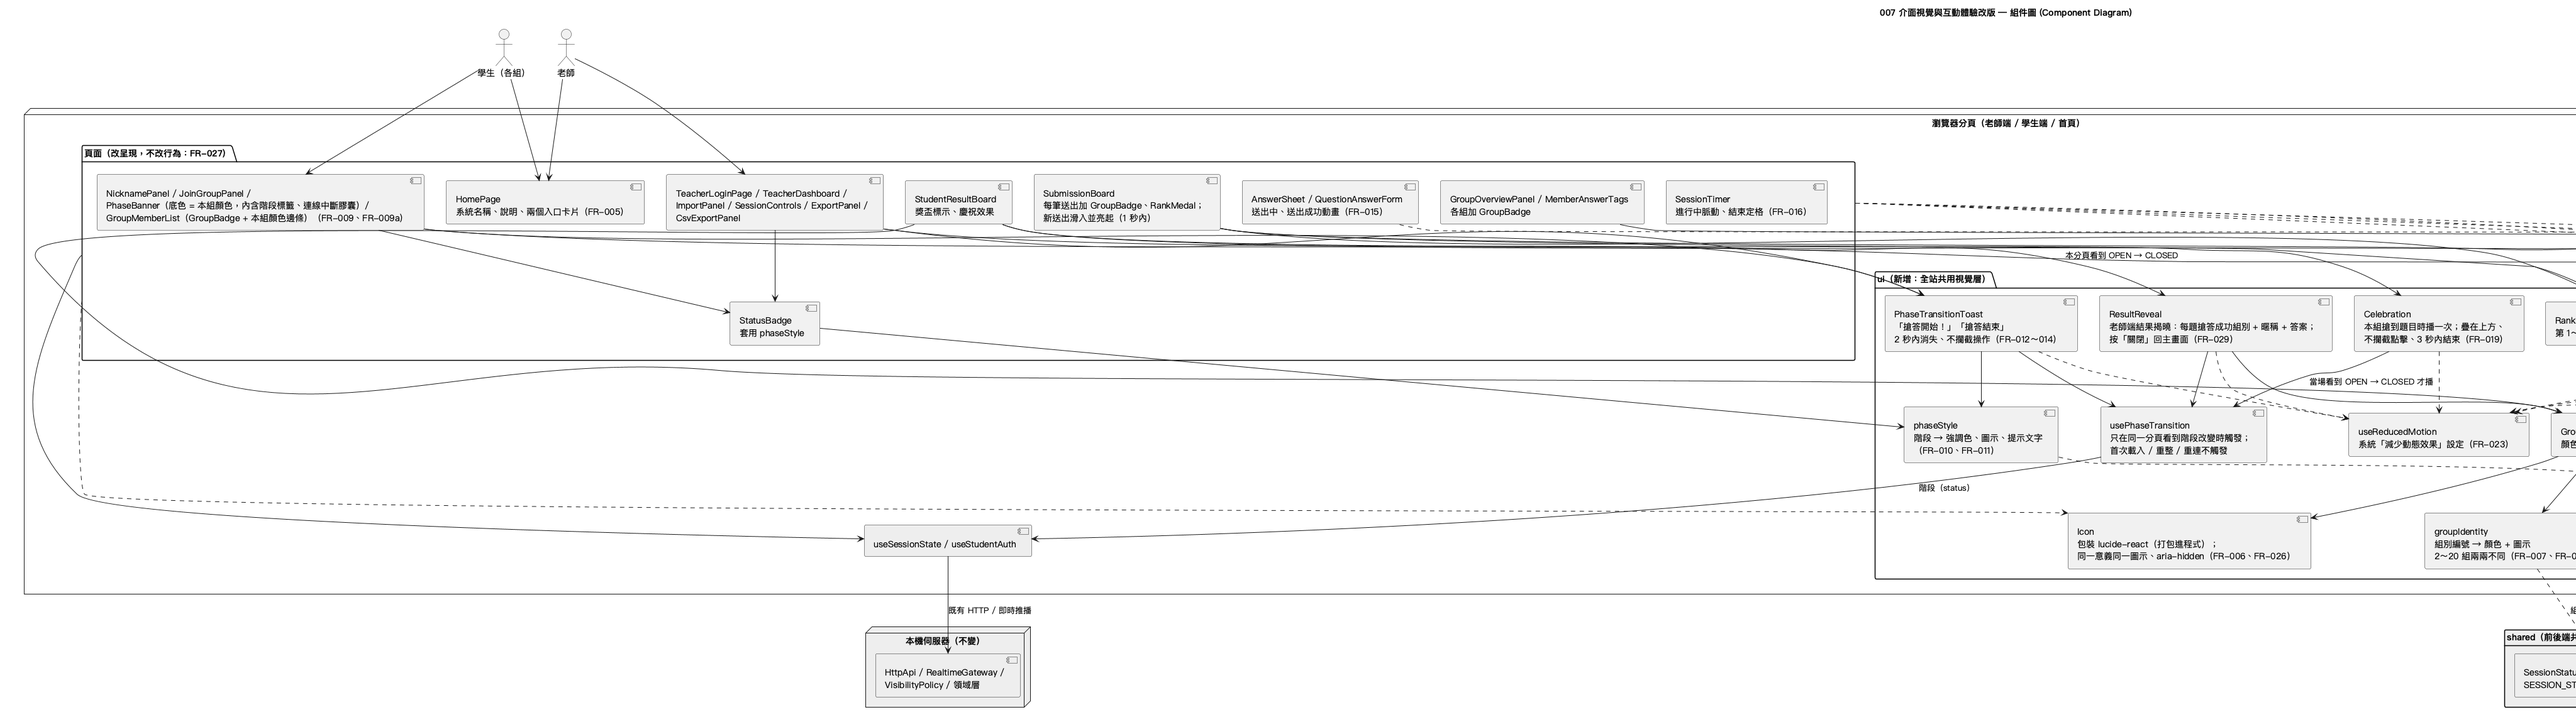
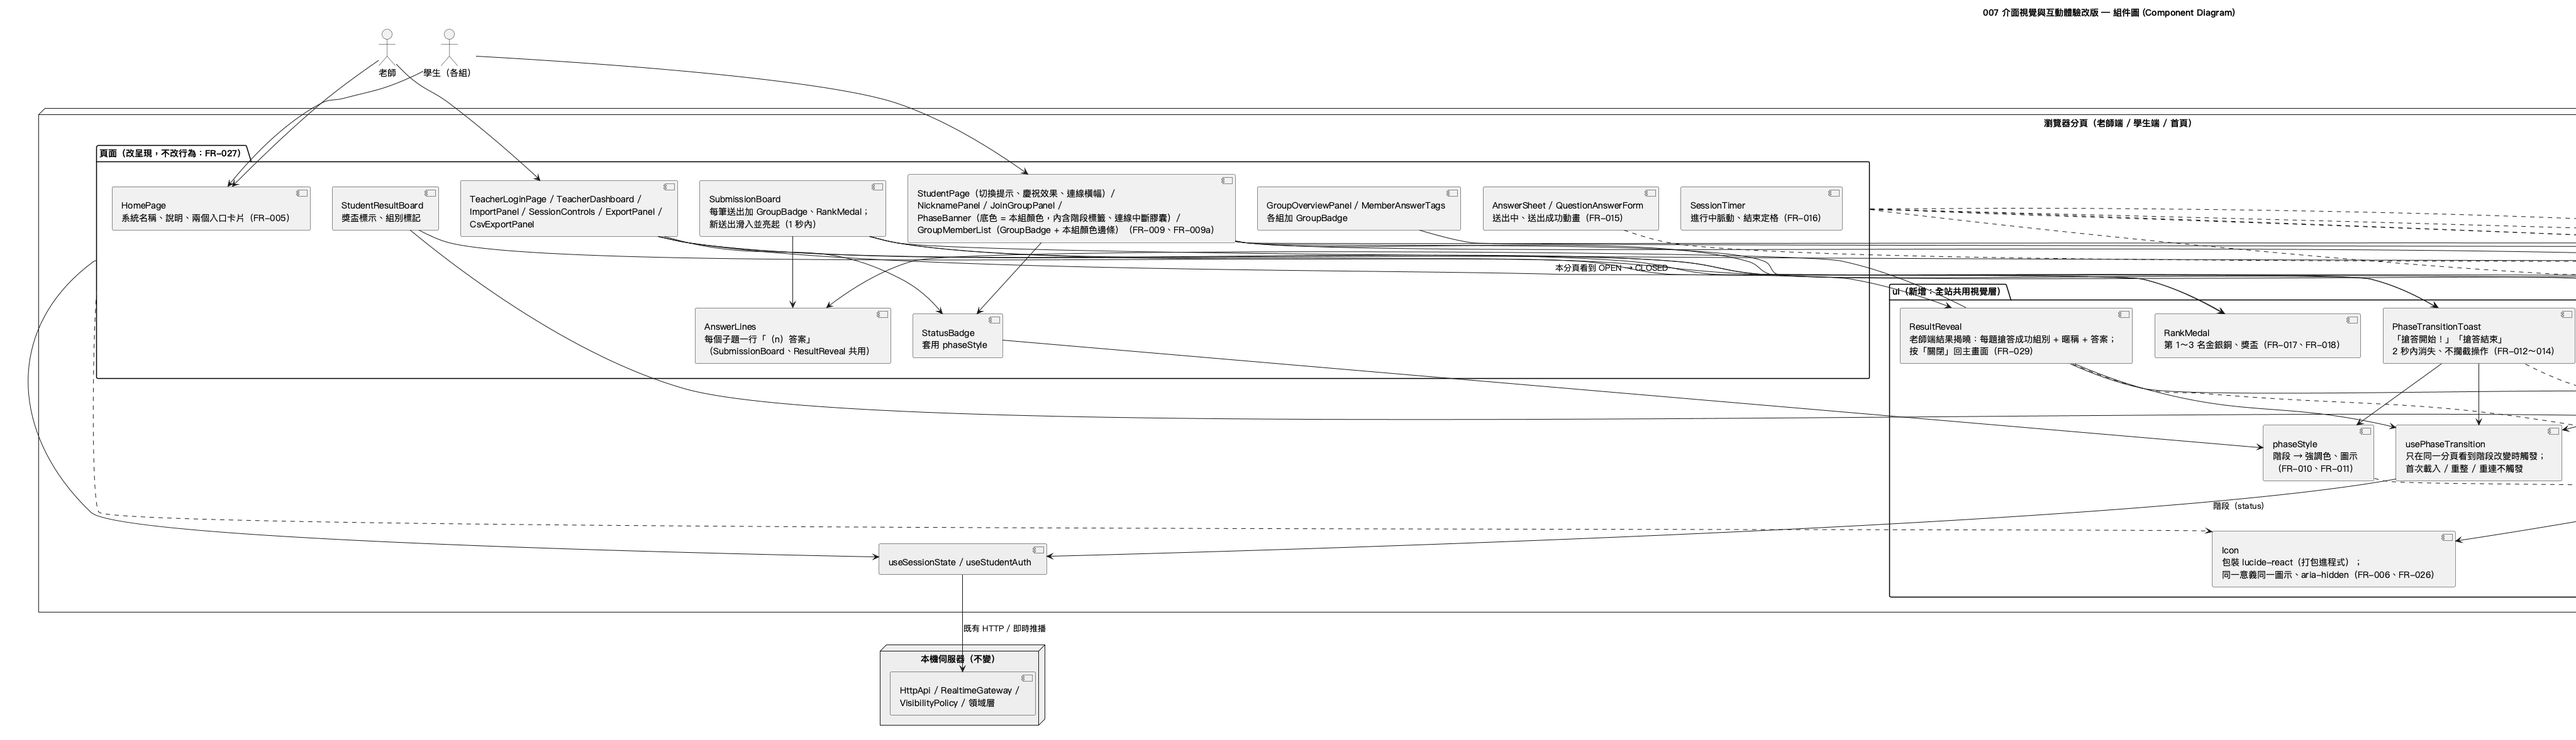
docs(007): verify diagrams, add manual checklist and README notes
Polish: diagram-verification.md records the comparison with the code and
the diagram fixes it needed, checklists/manual-verification.md lists the
teacher-plus-two-groups steps, the README describes the new interface,
and tasks.md records bundle sizes, the width checks and the full run.

diff --git a/specs/007-ui-ux-refresh/tasks.md b/specs/007-ui-ux-refresh/tasks.md
@@ -242,12 +242,15 @@ FR-028～FR-030）
 
 ## Phase 8: Polish & Cross-Cutting Concerns
 
-- [ ] T080 [P] 新增 `specs/007-ui-ux-refresh/diagram-verification.md`：逐一比對 `diagrams/007-ui-ux-refresh-{component,class,sequence}.puml` 的元素與 plan.md「圖表對應」的原始碼位置（函式名稱、簽章、時間常數、觸發條件）；不一致時先改圖並重新產生 PNG，再記錄結果（原則 VI）
-- [ ] T081 [P] 新增 `specs/007-ui-ux-refresh/checklists/manual-verification.md`：依 quickstart.md §5 列出老師＋兩組學生的人工驗證步驟，`- [ ]` 格式、每步「操作 → 預期結果」，不含截圖、日期、執行者欄位
-- [ ] T082 [P] 更新 `README.md` 的功能說明：加入一兩句介面改版說明（組別顏色與圖示、切換提示、結果揭曉、支援減少動態效果）；不改其他段落
-- [ ] T083 依 quickstart.md §4 執行 `npm run build -w @crs/web` 與外部網址檢查：沒有 500 kB 警告、`index-*.js` gzip ≤ 140 kB、`StudentPage-*.js` gzip ≤ 180 kB、Nunito latin woff2 ≤ 60 kB、`dist/index.html` 與 CSS 不含 `http://`／`https://`；在本任務下方記錄實際數字（research R10）
-- [ ] T084 以瀏覽器在 375、768、1280、1920 px 檢查首頁、暱稱、選組、作答、結果、老師主畫面、結果揭曉：沒有水平捲動與重疊；20 字暱稱與長答案正常換行；以 Chrome Lighthouse 無障礙檢查（或開發者工具的對比檢查）確認上述畫面沒有對比不足的文字（SC-006）；開啟系統「減少動態效果」後沒有動畫（FR-023、FR-025、SC-007）；結果記錄在 `checklists/manual-verification.md` 的備註
-- [ ] T085 依 quickstart.md §3 執行完整自動化驗證（`npm run typecheck`、`npm run lint`、`npm run format:check`、`npm test`、`npm run build`），全部通過並回報；`git diff main --stat` 確認 `apps/server`、`packages/shared`、`scripts` 沒有變更，`package.json` 只有 `apps/web/package.json` 新增兩個套件
+- [X] T080 [P] 新增 `specs/007-ui-ux-refresh/diagram-verification.md`：逐一比對 `diagrams/007-ui-ux-refresh-{component,class,sequence}.puml` 的元素與 plan.md「圖表對應」的原始碼位置（函式名稱、簽章、時間常數、觸發條件）；不一致時先改圖並重新產生 PNG，再記錄結果（原則 VI）
+- [X] T081 [P] 新增 `specs/007-ui-ux-refresh/checklists/manual-verification.md`：依 quickstart.md §5 列出老師＋兩組學生的人工驗證步驟，`- [ ]` 格式、每步「操作 → 預期結果」，不含截圖、日期、執行者欄位
+- [X] T082 [P] 更新 `README.md` 的功能說明：加入一兩句介面改版說明（組別顏色與圖示、切換提示、結果揭曉、支援減少動態效果）；不改其他段落
+- [X] T083 依 quickstart.md §4 執行 `npm run build -w @crs/web` 與外部網址檢查：沒有 500 kB 警告、`index-*.js` gzip ≤ 140 kB、`StudentPage-*.js` gzip ≤ 180 kB、Nunito latin woff2 ≤ 60 kB、`dist/index.html` 與 CSS 不含 `http://`／`https://`；在本任務下方記錄實際數字（research R10）
+  - 實作備註：`vite build`：`index-*.js` 421.77 kB（gzip 132.11 kB ≤ 140）、`StudentPage-*.js` 436.61 kB（gzip 163.99 kB ≤ 180）、CSS 38.18 kB（gzip 7.98 kB）、`nunito-latin-wght-normal-*.woff2` 39.12 kB（≤ 60）；沒有 500 kB 警告；`dist/index.html` 與 `dist/assets/*.css` 不含 `http://`／`https://`。
+- [X] T084 以瀏覽器在 375、768、1280、1920 px 檢查首頁、暱稱、選組、作答、結果、老師主畫面、結果揭曉：沒有水平捲動與重疊；20 字暱稱與長答案正常換行；以 Chrome Lighthouse 無障礙檢查（或開發者工具的對比檢查）確認上述畫面沒有對比不足的文字（SC-006）；開啟系統「減少動態效果」後沒有動畫（FR-023、FR-025、SC-007）；結果記錄在 `checklists/manual-verification.md` 的備註
+  - 實作備註：以瀏覽器（3901 埠、種子資料）用 `scrollWidth > clientWidth` 檢查：375 px 的首頁、暱稱頁、選組頁、學生結果、老師主畫面，768 px 的首頁、學生結果、老師主畫面，1280／1920 px 的老師主畫面，都沒有水平捲動。375 px 老師主畫面右側的空白是 006 為浮動「分組情況」按鈕保留的欄位（FR-025 要求維持）。Lighthouse 對比檢查與系統「減少動態效果」需要使用者的瀏覽器與作業系統設定，保留在 `checklists/manual-verification.md` 由組員實測；色票與 index.css 語意色的對比已由 `theme.test.ts` 自動檢查。
+- [X] T085 依 quickstart.md §3 執行完整自動化驗證（`npm run typecheck`、`npm run lint`、`npm run format:check`、`npm test`、`npm run build`），全部通過並回報；`git diff main --stat` 確認 `apps/server`、`packages/shared`、`scripts` 沒有變更，`package.json` 只有 `apps/web/package.json` 新增兩個套件
+  - 實作備註：`npm run typecheck`、`npm run lint`、`npm run format:check`、`npm run build` 通過；`npm test` 第一次 772 個測試中 1 個失敗、第二次 89 個測試檔 772 個全過。失敗的是 006 的 `apps/server/tests/integration/roster.test.ts`「老師都在 1 秒內收到更新」（等待 session:state 逾時），單獨重跑也會偶發失敗，伺服器程式與 origin/main 完全相同。`git diff origin/main -- apps/server packages/shared scripts` 沒有差異（本機 `main` 分支停在 005 之前，比對改用 origin/main）；`package.json` 只有 `apps/web/package.json` 新增兩個套件，並更新 `package-lock.json`。
 
 ---
 

diff --git a/specs/007-ui-ux-refresh/checklists/manual-verification.md b/specs/007-ui-ux-refresh/checklists/manual-verification.md
@@ -1,0 +1,57 @@
+# 人工驗證清單：介面視覺與互動體驗改版
+
+**Feature**: `007-ui-ux-refresh` | 依 [quickstart.md](../quickstart.md) §5
+
+照著每一步操作，確認預期結果後勾選。
+
+準備：老師分頁一個、學生分頁兩個（A、B），匯入課程的 Guided Notes，設定 3 組。每步「操作 → 預期結果」。
+
+**共用風格與首頁（US1）**
+
+- [ ] 打開首頁 → 看到系統名稱、一句說明，「老師端」「學生端」兩個入口各有圖示與說明；背景不是純白，入口卡片浮在背景上
+- [ ] 依序看老師登入頁、老師主畫面、學生暱稱頁、選組頁 → 配色、圓角、按鈕樣式一致；主要／次要／危險按鈕外觀不同
+- [ ] 把滑鼠移到按鈕上、按住、在停用狀態下查看 → 三種狀態都有可見變化；用 Tab 鍵移動 → 每個按鈕與輸入欄都有明顯焦點外框
+
+**組別識別（US2）**
+
+- [ ] 學生 A 打開選組頁 → 每組按鈕顏色與圖示都不同，仍顯示「第 N 組」與「已加入：N 人」
+- [ ] A 加入第 1 組、B 加入第 2 組 → A 的頂端列底色為第 1 組顏色並有第 1 組圖示，B 的為第 2 組；組員名單標題有本組徽章、卡片有本組顏色邊條；頁面背景沒有變
+- [ ] 老師端分組情況面板 → 第 1、2 組的顏色與圖示與學生端相同
+- [ ] 老師重新匯入同一份文件並設定 20 組，學生 A 重新選組 → 20 組的顏色＋圖示組合都不重複；第 1 組與第 11 組同色但圖示不同
+
+**階段標示與切換提示（US3）**
+
+- [ ] 學生 A 在待開始 → 頂端列內的階段標籤為「待開始」強調色與圖示；作答區顯示「等待老師開啟搶答」與漂浮動態
+- [ ] 老師開始搶答 → 1 秒內老師端與 A、B 都出現「搶答開始！」，約 2 秒內自動消失；提示出現時 A 可以直接點輸入欄打字
+- [ ] 搶答進行中重新整理 A → 直接回到進行中畫面，不出現「搶答開始！」
+- [ ] 計時顯示 → 進行中有脈動圓點，數字為進行中顏色
+
+**送出與名次（US4）**
+
+- [ ] A 送出第 1 題 → 按鈕立刻顯示「送出中…」且不能再按；成功後出現打勾標記與「已送出（暱稱）」
+- [ ] 老師端送出列表 → 新的一筆滑入並短暫亮起，約 1 秒內結束；帶有第 1 組徽章與金色獎牌「第 1 名」
+- [ ] B、再由另一個分頁加入第 3 組送出第 1 題 → 第 2 名銀色、第 3 名銅色；重新整理老師端 → 列表直接顯示，不播放滑入
+- [ ] 老師結束搶答 → A、B 的結果畫面立刻出現，「搶答結束」疊在上方約 2 秒內消失
+- [ ] 提示消失後 → 搶到題目的 A 出現彩色紙片落下，約 3 秒內結束；紙片落下期間可以捲動結果畫面；B 若沒搶到任何題目則沒有紙片
+- [ ] 老師端在提示消失後出現「結果揭曉」：每題有組別徽章、送出者暱稱與答案（題組每個子題一行），無人送出的題目顯示「本題無人搶答」；老師端沒有紙片
+- [ ] 按 Esc 或「關閉」 → 回到主畫面；重新整理老師端 → 不再出現結果揭曉
+- [ ] 重新整理 A → 結果直接顯示，沒有提示、沒有紙片
+
+**等待、空白與連線（US5）**
+
+- [ ] 老師尚未匯入時打開新的學生分頁 → 選組畫面顯示插圖、「老師尚未匯入題目，請稍候」與漂浮動態
+- [ ] 搶答進行中把 A 的網路切斷（開發者工具 Network → Offline）→ A 的頂端列出現紅底的「連線中斷，正在重新連線」，仍可捲動與輸入；把老師分頁斷線 → 頂端出現「連線中…」橫幅；在選組頁（尚未加入組別）把學生分頁斷線 → 頂端出現「連線中斷，正在重新連線」橫幅
+- [ ] 恢復網路 → 顯示「已重新連線」約 2 秒後消失
+- [ ] A 斷線期間老師結束搶答，之後恢復網路 → A 直接看到結果，沒有「搶答結束」提示、沒有紙片
+
+**減少動態、版面與離線**
+
+- [ ] 系統設定開啟「減少動態效果」（macOS：輔助使用 → 顯示器 → 減少動態；Windows：設定 → 協助工具 → 視覺效果 → 動畫效果關閉）後重跑一輪 → 提示直接出現與消失、沒有紙片、沒有漂浮與脈動、沒有滑入
+- [ ] 開發者工具切換寬度 375、768、1280、1920 px，檢查首頁、選組、作答、結果、老師主畫面 → 都沒有水平捲軸、文字與按鈕沒有重疊
+- [ ] 輸入 20 字暱稱與很長的答案 → 頂端列、組員名單、送出列表、結果揭曉都正常換行
+- [ ] 以 Chrome Lighthouse 的無障礙檢查（或開發者工具的對比檢查）看首頁、選組、作答、結果、老師主畫面 → 沒有對比不足的文字
+- [ ] 關閉電腦的網路連線後執行 `npm start` 並打開各畫面 → 圖示、字型、插圖都正常顯示
+
+**不退化**
+
+- [ ] 依 001～006 的人工驗證步驟（老師端＋兩組學生端的完整流程、Guided Notes 匯出、CSV 匯出、分組情況面板寬窄版面）跑一次 → 結果與改版前相同

diff --git a/specs/007-ui-ux-refresh/diagram-verification.md b/specs/007-ui-ux-refresh/diagram-verification.md
@@ -1,0 +1,40 @@
+# 圖表與程式碼一致性驗證（原則 VI）
+
+**Feature**: `007-ui-ux-refresh`
+**驗證日期**: 2026-11-28
+**比對對象**: `diagrams/007-ui-ux-refresh-{component,class,sequence}.puml` ↔ plan.md「圖表對應」的原始碼
+
+## 結果
+
+實作完成後逐一比對。實作期間有一處設計調整（`usePhaseTransition`、`useNewSubmissionHighlight` 改以伺服器推來的資料物件為單位），
+依原則 VI **先**更新類別圖、時序圖、data-model、research R6，再改程式碼；收尾比對時另發現 6 處細節與圖表不一致，
+已更新圖表並以 `plantuml "./diagrams/007-*.puml"` 重新產生 PNG，之後兩者一致。伺服器端與共用契約在圖中標為不變，
+`git diff origin/main -- apps/server packages/shared scripts` 沒有任何差異。
+
+| 圖表元素 | 原始碼 | 結果 |
+|----------|--------|------|
+| VisualTheme | `apps/web/src/index.css`（`@theme`、背景、`ui-card`、keyframes、`.ui-anim` 減少動態規則）、`apps/web/src/ui/theme.ts` | 一致 |
+| theme（`GROUP_COLORS`、`PHASE_COLORS`、`MEDAL_COLORS`） | `apps/web/src/ui/theme.ts` | 一致；另有 `ON_COLOR`（彩色底上的白字） |
+| timing（四個時間常數） | `apps/web/src/ui/timing.ts` | 一致（1800／2800／900／2000 ms） |
+| Icon、IconName | `apps/web/src/ui/icons.tsx` | 一致；lucide 1.82 沒有 Music、CircleAlert，改用 Guitar、CircleExclamationPoint（research R2、R7 已更新）；另加入區塊標題與首頁用的意義圖示 |
+| groupIdentity、GroupIdentity、GroupColor | `apps/web/src/ui/groupIdentity.ts` | 一致 |
+| GroupBadge | `apps/web/src/ui/GroupBadge.tsx` | 已更新組件圖：多了 `showName={false}` 的圓形標記（組員名單、學生端結果使用，contracts/ui-visual.md §3） |
+| phaseStyle、PhaseStyle | `apps/web/src/ui/phaseStyle.ts` | 已更新類別圖與組件圖：欄位為 `status`、`label`、`color`、`icon`；提示文字由 `usePhaseTransition` 產生，不在 phaseStyle |
+| usePhaseTransition、PhaseTransition | `apps/web/src/ui/usePhaseTransition.ts` | 實作中調整：簽章 `(view, connected)`，先改圖再改程式；`PhaseTransition` 有 `from`、`to`、`text`、`key` |
+| PhaseTransitionToast | `apps/web/src/ui/PhaseTransitionToast.tsx` | 一致 |
+| RankMedal | `apps/web/src/ui/RankMedal.tsx` | 一致 |
+| Celebration | `apps/web/src/ui/Celebration.tsx`；觸發在 `apps/web/src/pages/student/StudentPage.tsx` | 已更新類別圖與組件圖：元件只接收 `active`，何時播放由 StudentPage 決定（原圖寫成元件自己判斷 transition 與是否搶到） |
+| ResultReveal | `apps/web/src/pages/teacher/ResultReveal.tsx`；開啟在 `TeacherDashboard.tsx` | 已更新類別圖：接收整份 `view` 與 `onClose`（原圖為 `results`） |
+| useNewSubmissionHighlight | `apps/web/src/ui/useNewSubmissionHighlight.ts` | 實作中調整：簽章 `(submissions, connected)`，先改圖再改程式 |
+| EmptyState／LoadingState | `apps/web/src/ui/EmptyState.tsx` | 一致；LoadingState 另有 `inline`（老師端標題旁） |
+| ConnectionBanner | `apps/web/src/ui/ConnectionBanner.tsx` | 一致（`disconnectedText` 選填） |
+| useReducedMotion | `apps/web/src/ui/useReducedMotion.ts` | 一致 |
+| Button | `apps/web/src/ui/Button.tsx` | 已更新類別圖：多了 `size`；改用 `ComponentPropsWithRef`，結果揭曉可把焦點移到「關閉」 |
+| AnswerLines | `apps/web/src/components/AnswerLines.tsx` | 已更新組件圖：送出列表與結果揭曉共用 |
+| SectionHeading、styles（共用 class） | `apps/web/src/ui/SectionHeading.tsx`、`apps/web/src/ui/styles.ts` | 已更新組件圖：plan 未列出的小型共用模組，屬 VisualTheme 的一部分 |
+| HomePage | `apps/web/src/pages/HomePage.tsx` | 一致 |
+| SubmissionBoard、GroupOverviewPanel、MemberAnswerTags、其他老師端面板 | `apps/web/src/pages/teacher/*.tsx` | 一致 |
+| StudentPage、NicknamePanel、JoinGroupPanel、PhaseBanner、GroupMemberList、AnswerSheet、QuestionAnswerForm、StudentResultBoard | `apps/web/src/pages/student/*.tsx` | 已更新組件圖：StudentPage 負責切換提示、慶祝效果與連線橫幅 |
+| SessionTimer、StatusBadge | `apps/web/src/components/{SessionTimer,StatusBadge}.tsx` | 一致 |
+| 時序圖（加入、開始、送出、重新整理、結束、重連） | 上列元件與 `useSessionState` | 一致：結束時結果畫面立即出現、提示消失後才有慶祝與揭曉；重連後第一份新資料只建立 baseline |
+| useSessionState／useStudentAuth、shared、伺服器（灰色） | `apps/web/src/hooks/*`、`packages/shared`、`apps/server` | 沒有變更 |

diff --git a/README.md b/README.md
@@ -333,6 +333,13 @@ npm start
 - 較窄時：右上角出現「分組情況」按鈕，按下後從右側展開，可按「關閉」、點背景或按 Esc 收起
 - 只有老師看得到；學生端仍只看到各組人數與本組成員
 
+### 介面（子功能 007）
+
+- 每一組有固定的顏色與圖示（第 N 組永遠相同），選組按鈕、學生端頂端列、送出列表、分組情況都看得到
+- 老師開始或結束搶答時，老師端與學生端都會短暫出現「搶答開始！」「搶答結束」，不需要點掉
+- 送出列表的第 1～3 名有金、銀、銅獎牌；搶答結束時老師端會顯示一次「結果揭曉」，本組搶到題目的學生會看到慶祝紙片
+- 作業系統開啟「減少動態效果」時，動畫一律停用；圖示與字型都打包在系統內，沒有網路也能顯示
+
 ## 開發與測試
 
 | 指令 | 說明 |
@@ -371,3 +378,4 @@ diagrams/          PlantUML 圖表（.puml 與 .png）
 | 004 | 學生端細修（暱稱、各組人數與本組成員、學生端題目敘述、送出者暱稱與匯出、學生端計時） | 已實作 |
 | 005 | 搶答結果匯出 CSV（所有送出紀錄、題組逐子題、無人作答、Excel 相容） | 已實作 |
 | 006 | 老師端分組情況面板（各組組員、回答題號、連線中斷、寬窄版面） | 已實作 |
+| 007 | 介面視覺與互動體驗改版（共用風格、組別顏色與圖示、階段提示、名次與結果揭曉、等待與連線狀態） | 已實作 |
